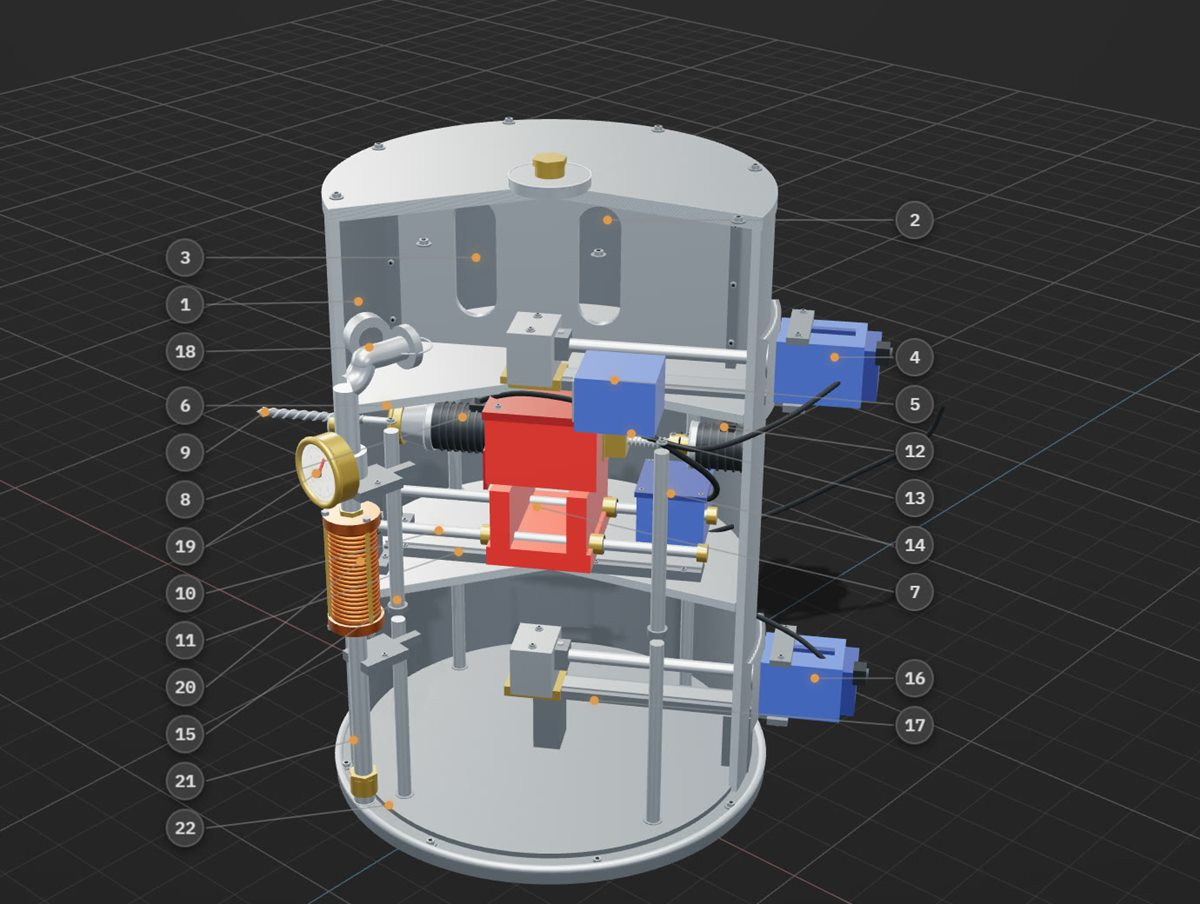
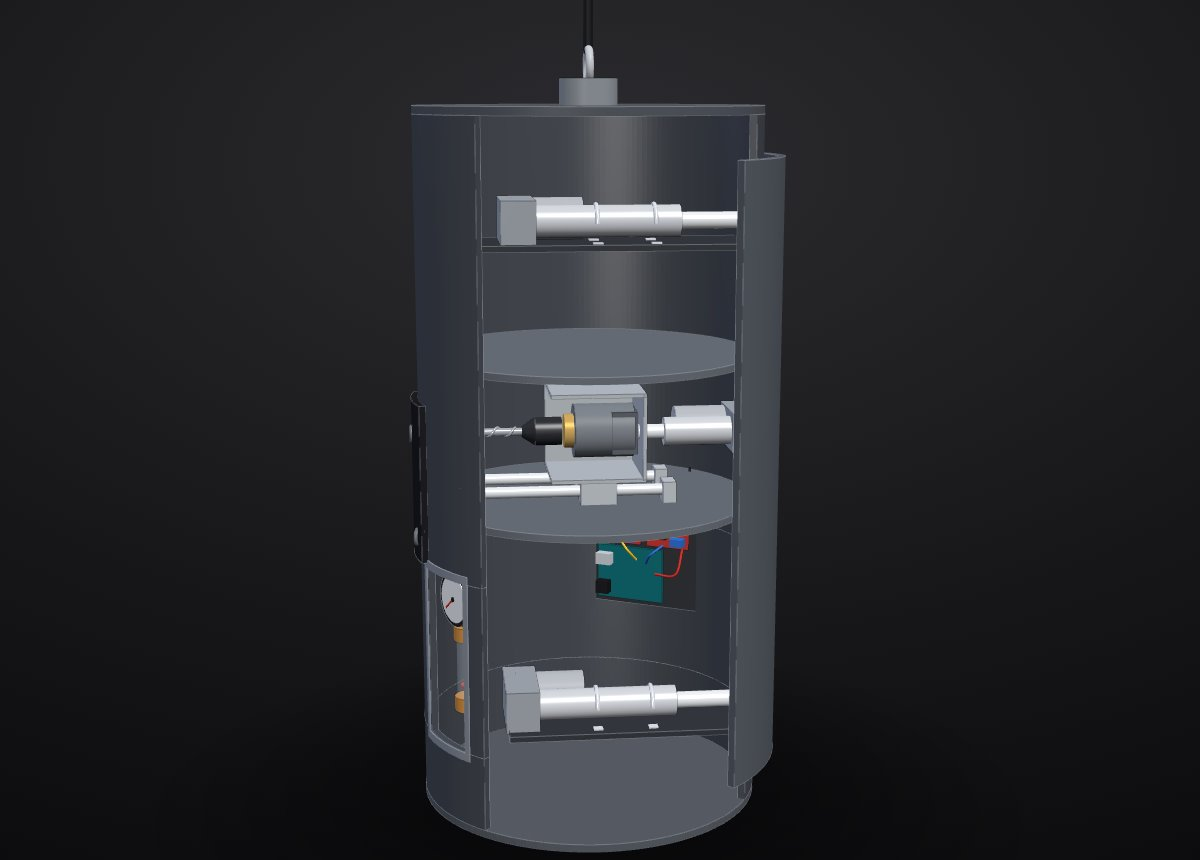
Show the rebuilt 3D model on the sensor tile
The Downhole-Sensor viewer was rebuilt to the real prototype, so the tile
picture and caption now show that model (19 parts) instead of the old one.

diff --git a/index.html b/index.html
@@ -330,7 +330,7 @@ a.tile:hover .shot > *{transform:scale(1.025)}
 .tile.feature .media figure{position:relative;margin:0;aspect-ratio:auto;height:clamp(300px,40vw,470px);overflow:hidden;background:#232323}
 .tile.feature .media img{position:absolute;inset:0;width:100%;height:100%;object-fit:cover;transition:transform 1.1s var(--ease)}
 .tile.feature .media figure:first-child img{object-position:50% 40%}
-.tile.feature .media figure:last-child img{object-position:50% 100%}
+.tile.feature .media figure:last-child img{object-position:50% 50%}
 .tile.feature:hover .media img{transform:scale(1.03)}
 .tile.feature .media figcaption{
   position:absolute;left:14px;bottom:14px;padding:6px 12px;border-radius:980px;
@@ -698,8 +698,8 @@ footer{background:var(--grey);padding:20px 0 26px;font-size:12px;line-height:1.5
             <figcaption>Steel prototype on the bench</figcaption>
           </figure>
           <figure>
-            <img src="assets/sensor-model.jpg" width="1200" height="904" loading="lazy" alt="3D model of the downhole sensor assembly with numbered parts">
-            <figcaption>3D assembly model, 22 parts</figcaption>
+            <img src="assets/sensor-model.jpg" width="1200" height="860" loading="lazy" alt="3D model of the downhole sensor with the casing cut away: two stabilizer actuators, the drill carriage, the control boards and the gauge behind its window">
+            <figcaption>Interactive 3D model, 19 parts</figcaption>
           </figure>
         </div>
       </article>
